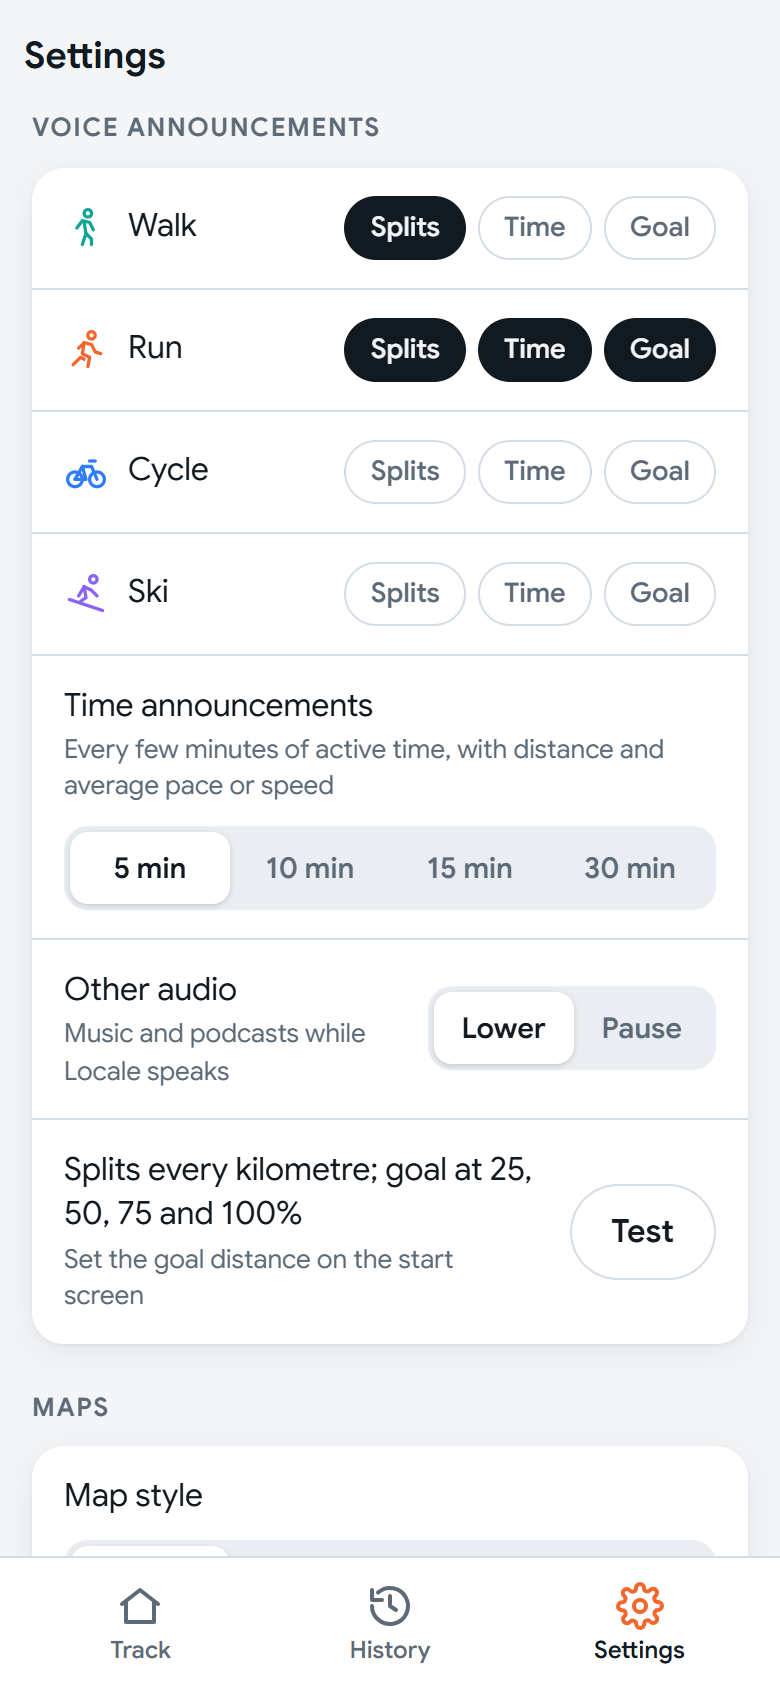
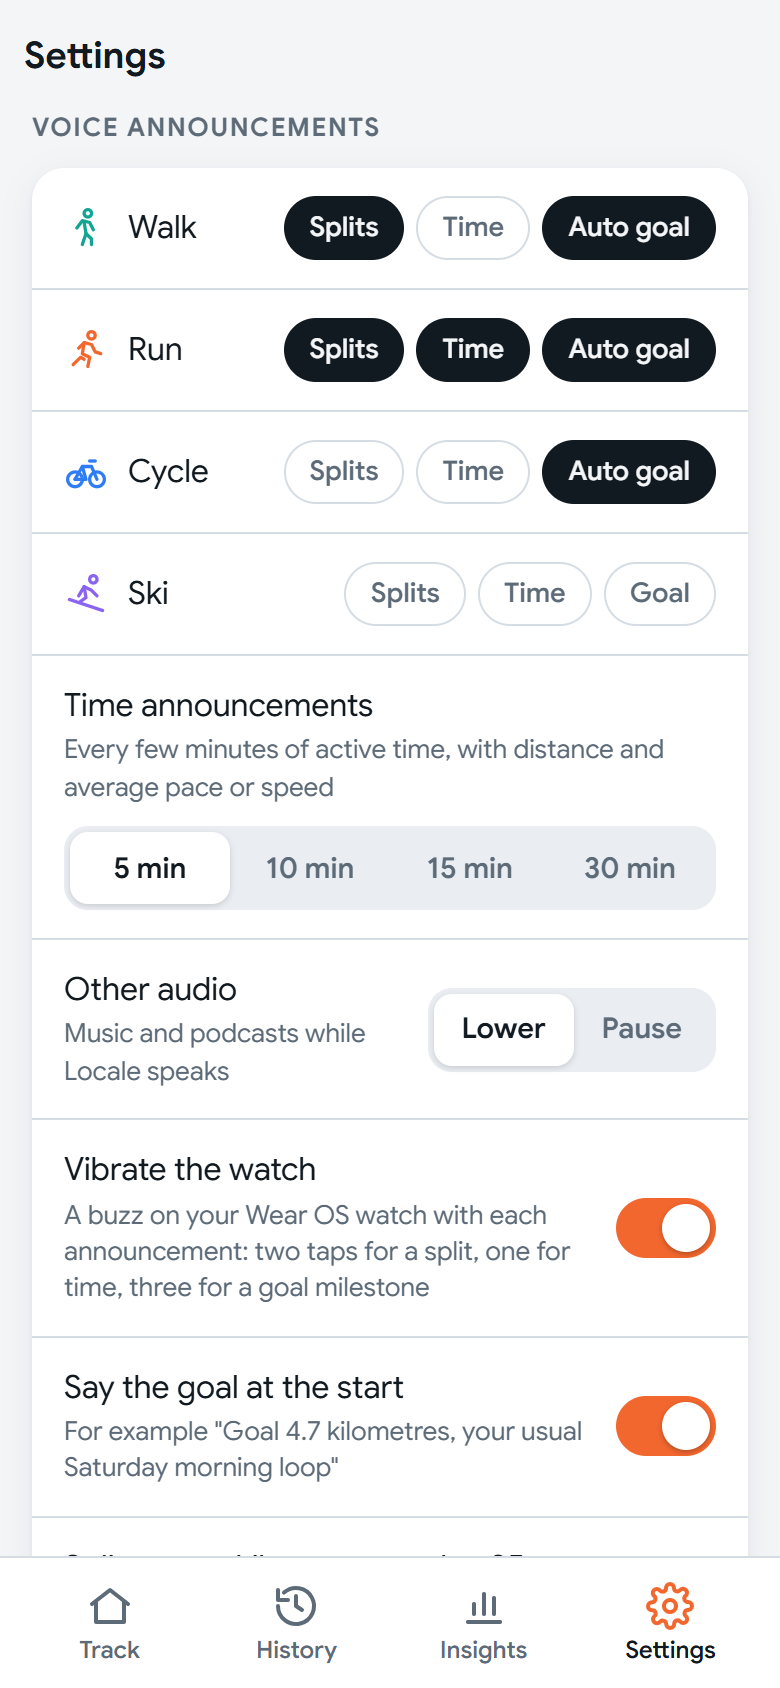
README: refresh Home, Settings and Voice screenshots with the View tile and Insights tab

diff --git a/README.md b/README.md
@@ -20,7 +20,7 @@ The app is written in HTML5, vanilla JavaScript and CSS3, and packaged with
 sensors.
 
 <p align="center">
-  <img src="docs/screenshots/home.png" width="250" alt="Home screen with activity tiles and the City2Surf sample workout">
+  <img src="docs/screenshots/home.png" width="250" alt="Home screen with activity tiles, the Live and View tiles, and the City2Surf sample workout">
   &nbsp;
   <img src="docs/screenshots/live.png" width="250" alt="Live workout screen with elapsed time, heart rate, distance, pace, heading, altitude and location">
   &nbsp;
@@ -41,7 +41,7 @@ sensors.
   <img src="docs/screenshots/live-position.png" width="250" alt="Live position screen: coordinates, barometric altitude, speed, compass heading and a map, with nothing recorded">
 </p>
 <p align="center">
-  <img src="docs/screenshots/voice-settings.png" width="250" alt="Voice announcement settings: Splits, Time and Goal per activity, time interval, lower or pause other audio, and a Test button">
+  <img src="docs/screenshots/voice-settings.png" width="250" alt="Voice announcement settings: Splits, Time and Goal per activity, time interval, lower or pause other audio, watch vibration and saying the goal at the start">
   &nbsp;
   <img src="docs/screenshots/voice-live.png" width="250" alt="Live workout screen showing the last spoken announcement as a caption under the controls">
 </p>
